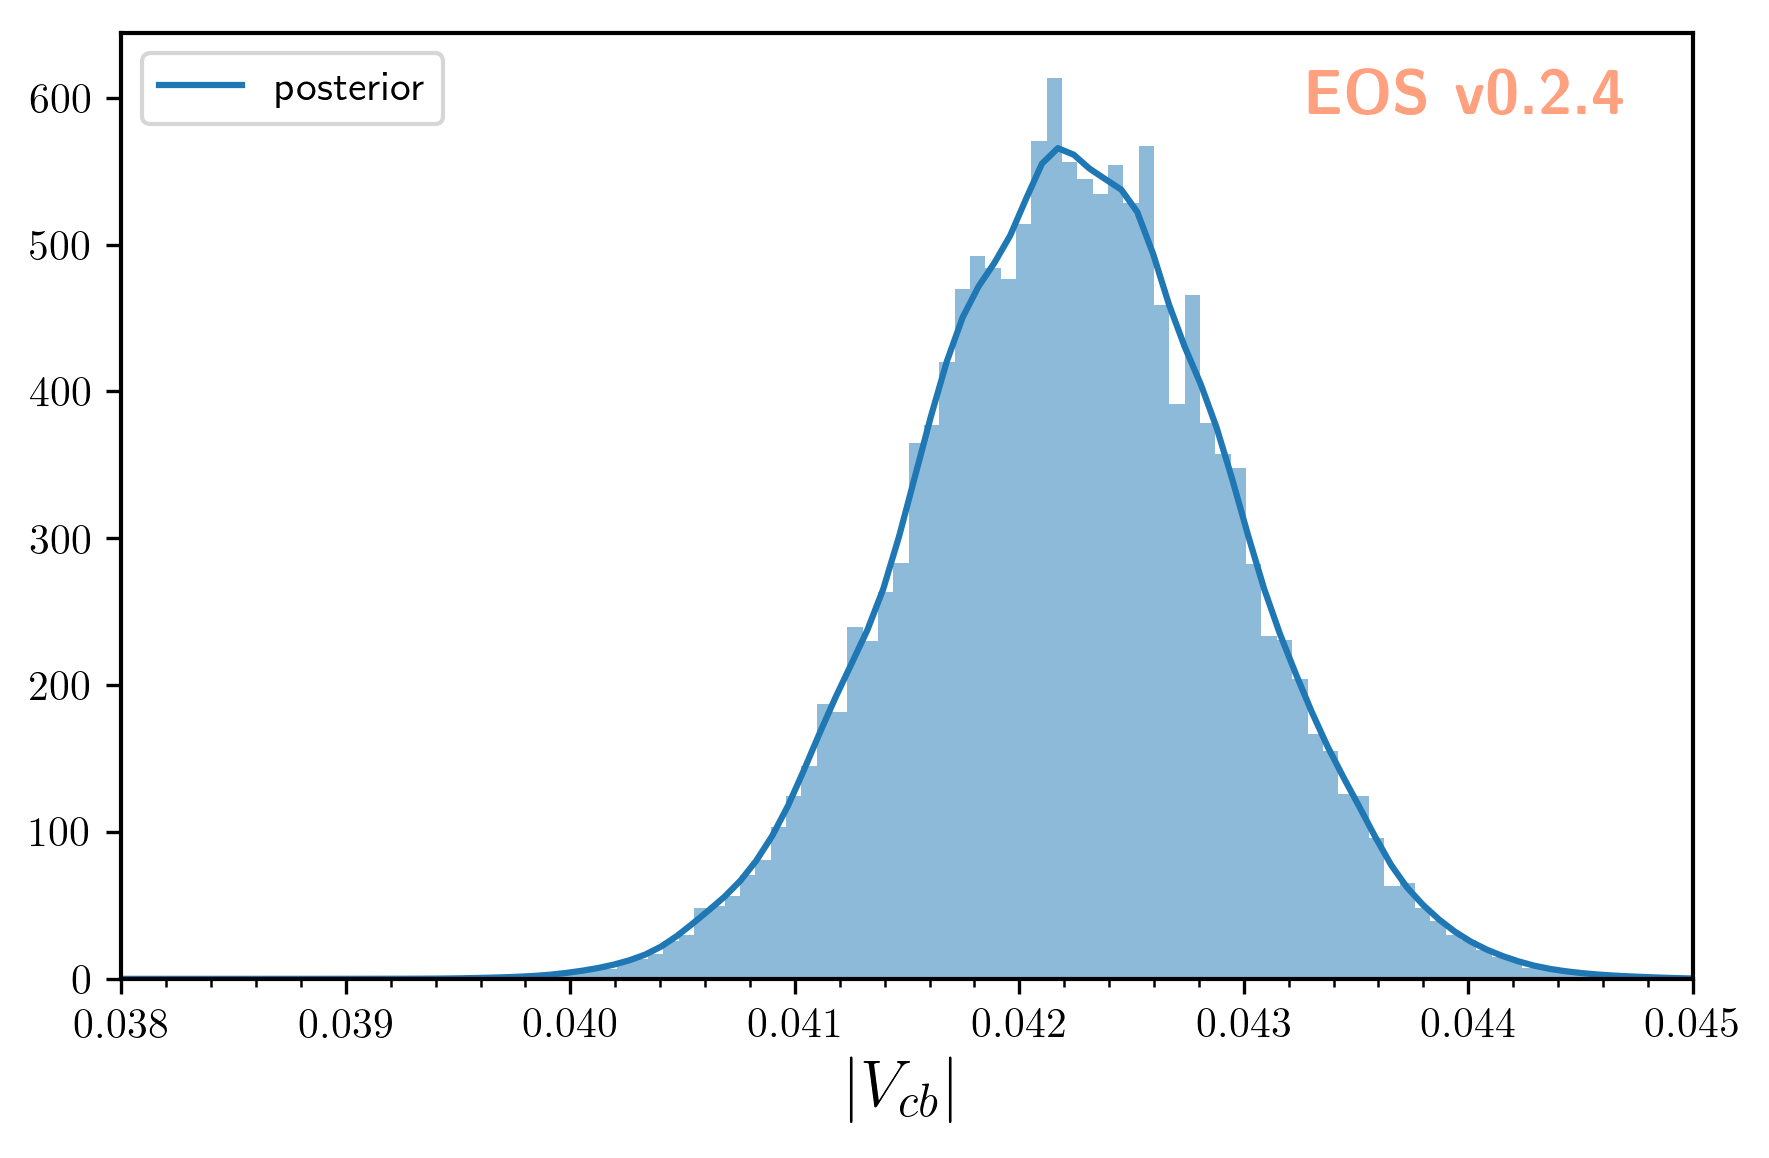
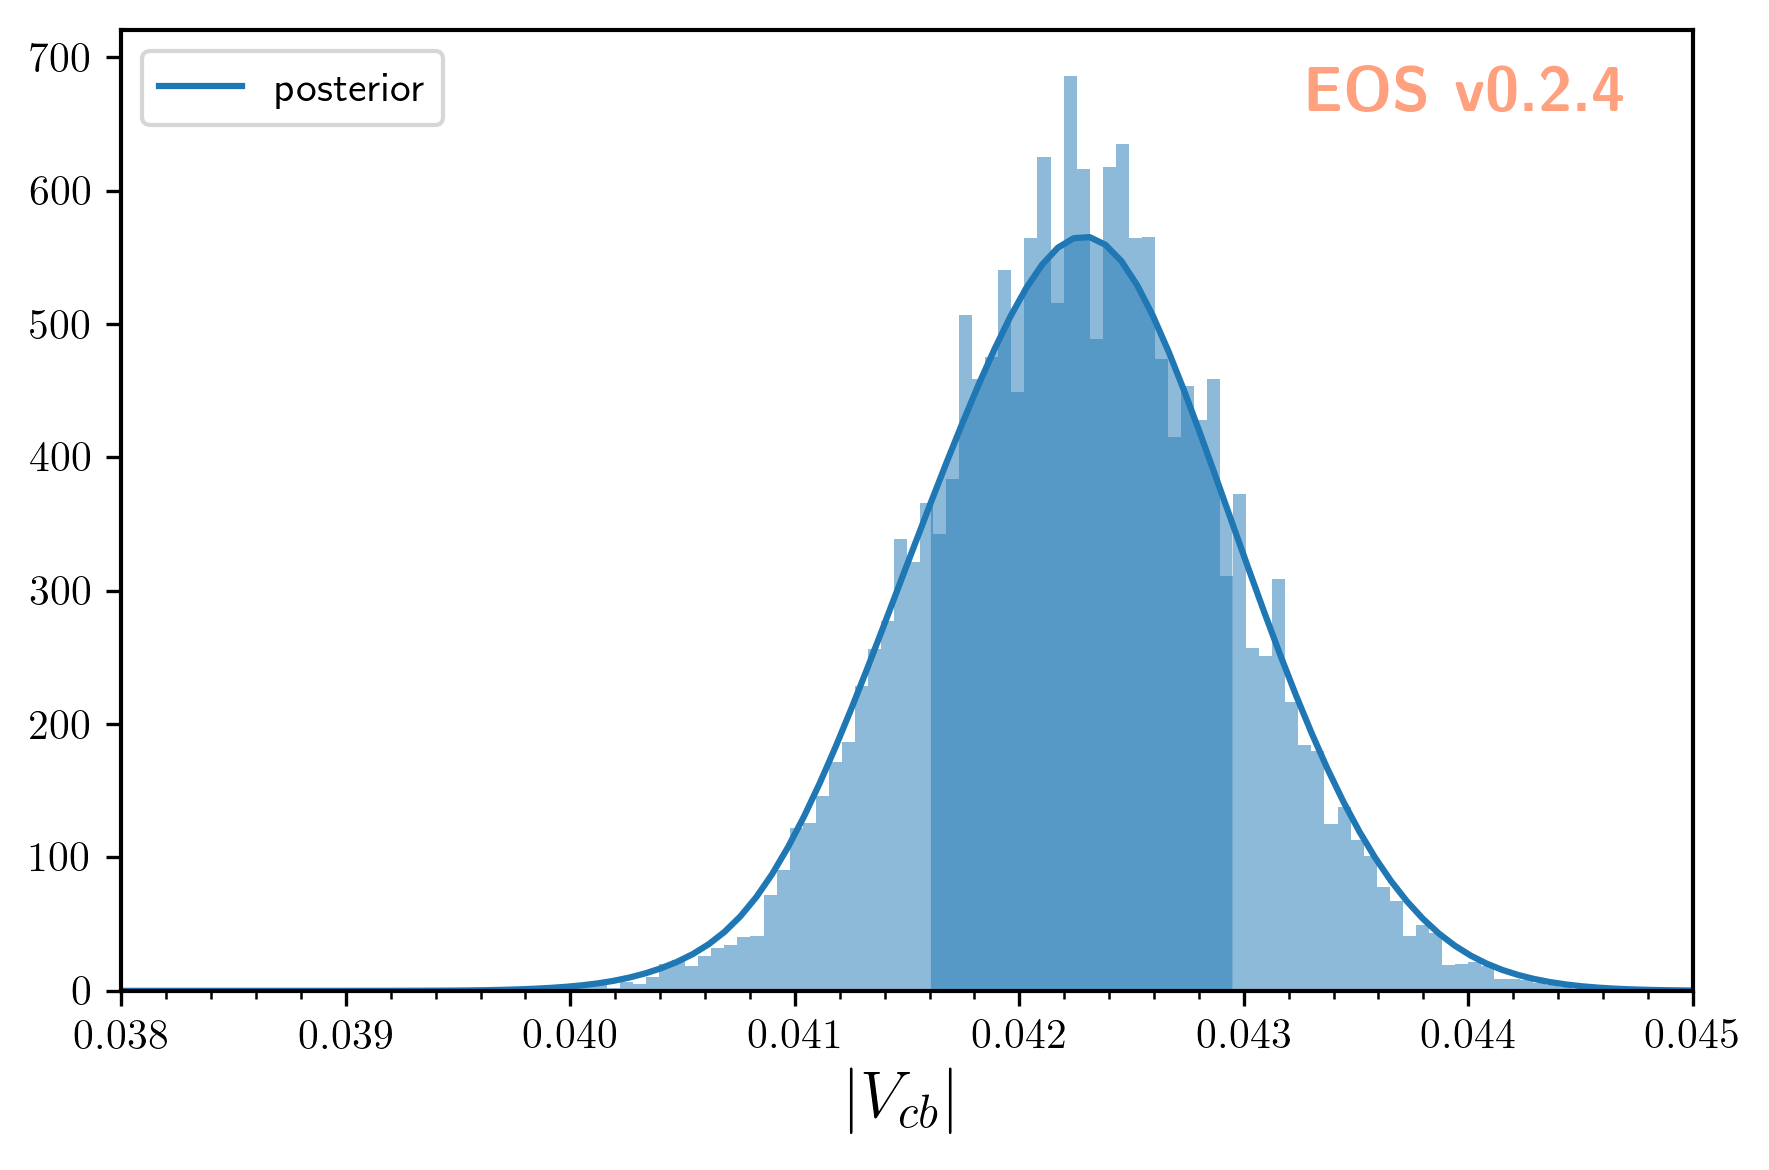
[doc] Document the parameter inference use case

diff --git a/doc/use-cases.rst b/doc/use-cases.rst
@@ -298,13 +298,45 @@ We can plot these samples with EOS' plotting framework by running:
 .. image:: /images/use-cases_plot-uncertainty.png
    :width: 600
 
+
 *******************
 Parameter Inference
 *******************
 
-.. todo::
+EOS can infer parameters based on a database of experimental or theoetical constraints and its built-in observables.
+The examples following in this section illustrate how to find a specific constraint from the list of all built-in observables,
+construct an :class:`Analysis <eos.Analysis>` object that represents the statistical analysis,
+and infer mean value and standard deviation of a list of parameters.
 
-  Write section on parameter inference
+.. note::
+
+   The following examples are also available as an interactive `Jupyter <https://jupyter.org/>`_ notebook `from here <https://github.com/eos/eos/blob/master/examples/inference.ipynb>`_.
+
+
+Listing the built-in Constraints
+================================
+
+The full list of built-in constraints for the most-recent EOS release is available online `here <https://eos.github.io/doc/constraints>`_.
+For an interactive apporach to see the list of constraints available to you, run the following in a Jupyter notebook:
+
+.. code-block::
+
+   import eos
+   display(eos.Constraints())
+
+Searching for a specific observable is possible filtering by the constraint name's `prefix`, `name`, or `suffix`, e.g.:
+
+.. code-block::
+
+   display(eos.Constraints(prefix='B^0->D^+'))
+
+
+Visualizing the built-in Constraints
+====================================
+
+For what follows we will use the two experimental constraints ``B^0->D^+e^-nu::BRs@Belle-2015A`` and ``B^0->D^+mu^-nu::BRs@Belle-2015A``,
+to infer the CKM matrix element :math:`|V_{cb}|`. We can readily display these two constraints, along with the default theory prediction,
+using the following code:
 
 .. code-block::
 
@@ -345,20 +377,34 @@ Parameter Inference
    }
    eos.plot.Plotter(plot_args).plot()
 
+The resulting plot looks like this:
+
 .. image:: /images/use-cases_inference_plot-a-priori.png
    :width: 600
+
+
+Defining the statistical Analysis
+=================================
+
+To define our statistical analysis for the inference of :math:`|V_{cb}|` from :math:`\bar{B}\to D\ell^-\bar\nu` branching ratios,
+some decisions are needed.
+First, we must decide how to parametrize the hadronic form factors that emerge in semileptonic :math:`\bar{B}\to D` transitions.
+For what follows we will use the [BSZ2015]_ parametrization.
+Next, we must decide the theory input for the form factors. For what follows we will combine the correlated lattice QCD results published by the Fermilab/MILC and HPQCD collaborations in 2015.
+
+We then create an :class:`Analysis <eos.Analysis>` object as follows:
 
 .. code-block::
 
    analysis_args = {
        'global_options': { 'form-factors': 'BSZ2015', 'model': 'CKMScan' },
        'priors': [
-           { 'parameter': 'CKM::abs(V_cb)',           'min':  38e-3, 'max':  45e-3,  'type': 'uniform' },
-           { 'parameter': 'B->D::alpha^f+_0@BSZ2015', 'min':  0.0,   'max':  1.0,    'type': 'uniform' },
-           { 'parameter': 'B->D::alpha^f+_1@BSZ2015', 'min': -4.0,   'max': -1.0,    'type': 'uniform' },
-           { 'parameter': 'B->D::alpha^f+_2@BSZ2015', 'min': +4.0,   'max': +6.0,    'type': 'uniform' },
-           { 'parameter': 'B->D::alpha^f0_1@BSZ2015', 'min': -1.0,   'max': +2.0,    'type': 'uniform' },
-           { 'parameter': 'B->D::alpha^f0_2@BSZ2015', 'min': -2.0,   'max':  0.0,    'type': 'uniform' }
+           { 'parameter': 'CKM::abs(V_cb)',           'min':  38e-3, 'max':  45e-3, },
+           { 'parameter': 'B->D::alpha^f+_0@BSZ2015', 'min':  0.0,   'max':  1.0,   },
+           { 'parameter': 'B->D::alpha^f+_1@BSZ2015', 'min': -4.0,   'max': -1.0,   },
+           { 'parameter': 'B->D::alpha^f+_2@BSZ2015', 'min': +4.0,   'max': +6.0,   },
+           { 'parameter': 'B->D::alpha^f0_1@BSZ2015', 'min': -1.0,   'max': +2.0,   },
+           { 'parameter': 'B->D::alpha^f0_2@BSZ2015', 'min': -2.0,   'max':  0.0,   }
        ],
        'likelihood': [
            'B->D::f_++f_0@HPQCD2015A',
@@ -370,6 +416,87 @@ Parameter Inference
    analysis = eos.Analysis(**analysis_args)
    analysis.parameters['CKM::abs(V_cb)'].set(42.0e-3)
 
+In the above, the global options ensure that our choice of form factor parametrization is used throughout,
+and that for CKM matrix elements the `CKMScan` model is used. The latter provides access to :math:`V_{cb}` matrix element through two :class:`parameters <eos.Parameter>`:
+the absolute value ``CKM::abs(V_cb)`` and the complex phase ``CKM::arg(V_cb)``.
+We provide the parameters in our analysis through the specifications of the Bayesian priors.
+In the above, each prior is by default a uniform prior that covers the range from ``min`` to ``max``.
+The likelihood is defined through a list constraints, which in the above includes both the experimental measurements by the Belle collaboration as well as the theoretical lattice QCD results.
+Finally, we set the starting value of ``CKM::abs(V_cb)`` to a sensible value of :math:`42\cdot 10^{-3}`.
+
+We can now proceed to optimize the log(posterior) through a call to ``analysis.optimize``.
+In a Jupyter notebook, it is useful to display the return value of this method, which illustrates the best-fit point.
+We can further display a summary of the goodness-of-fit information.
+
+.. code-block::
+
+   bfp = analysis.optimize()
+   display(bfp)
+   display(analysis.goodness_of_fit())
+
+The resulting best-fit point looks like this:
+
+.. list-table::
+   :widths: 25, 25
+
+   * - parameter
+     - value
+   * - :math:`|V_{cb}|`
+     - 0.0422
+   * - ``B->D::alpha^f+_0@BSZ2015``
+     - 0.6671
+   * - ``B->D::alpha^f+_1@BSZ2015``
+     - -2.5314
+   * - ``B->D::alpha^f+_2@BSZ2015``
+     - 4.8813
+   * - ``B->D::alpha^f0_1@BSZ2015``
+     - 0.2660
+   * - ``B->D::alpha^f0_2@BSZ2015``
+     - -0.8410
+
+The goodness-of-fit summary consists of a table listing all constraints,
+
+.. list-table::
+   :widths: 25, 25, 25
+
+   * - constraint
+     - :math:`\chi^2`
+     - d.o.f.
+   * - ``B->D::f_++f_0@FNALMILC2015A``
+     - 3.4847
+     - 7
+   * - ``B->D::f_++f_0@HPQCD2015A``
+     - 3.1016
+     - 5
+   * - ``B^0->D^+e^-nu::BRs@Belle-2015A``
+     - 11.8206
+     - 10
+   * - ``B^0->D^+mu^-nu::BRs@Belle-2015A``
+     - 5.2242
+     - 10
+
+and the overall information including the p value:
+
+.. list-table::
+   :widths: 25, 25
+
+   * - total :math:`\chi^2`
+     - 23.6310
+   * - total degrees of freedom
+     - 26
+   * - p-value
+     - 59.7053%
+
+
+Sampling from the posterior
+===========================
+
+To sample from the posterior, EOS provides the :meth:`sample <eos.Analysis.sample>` method.
+Optionally, it can also produce posterior-predictive samples for a list of observables.
+For this example, we produce such samples for the differential :math:`\bar{B}\to D^+e^-\bar\nu` branching ratio in 40 points in the phase space.
+We can use this to illustrate the results of our fit in relation to the constraints.
+The call is:
+
 .. code-block::
 
    e_q2values  = np.unique(np.concatenate((np.linspace(0.02,  1.00, 20), np.linspace(1.00, 11.60, 20))))
@@ -379,6 +506,66 @@ Parameter Inference
                  for q2 in e_q2values]
    parameter_samples, log_weights, e_samples  = analysis.sample(N=20000, stride=5, pre_N=1000, preruns=5, cov_scale=0.05, start_point=bfp.point, observables=e_obs)
 
+In the above we start sampling at the best-fit point, and carry out :code:`preruns = 5` burn-in runs/preruns of :code:`pre_N = 1000` samples each,
+and the main run with a total of :code:`N * stride = 100000` random Markov Chain samples.
+The latter are thinned down by a factor of :code:`stride = 5` to obtain :code:`N = 20000` samples in :code:`parameter_samples`.
+The values of the log(posterior) are stored in :code:`log_weights`.
+The posterior-preditive samples for the observables are stored in :code:`e_samples`, and are only returned if the :code:`observables` keyword argument is provided.
+
+
+We can illustrate the posterior samples either as a histogram or as a kernel density estimate (KDE) using the built-in plotting functions:
+
+.. code-block::
+
+   plot_args = {
+       'plot': {
+           'x': { 'label': r'$|V_{cb}|$', 'range': [38e-3, 45e-3] },
+           'legend': { 'location': 'upper left' }
+       },
+       'contents': [
+           {
+               'type': 'histogram',
+               'data': { 'samples': parameter_samples[:, 0], 'log_weights': log_weights }
+           },
+           {
+               'type': 'kde', 'color': 'C0', 'label': 'posterior', 'bandwidth': 2,
+               'range': [40e-3, 45e-3],
+               'data': { 'samples': parameter_samples[:, 0], 'log_weights': log_weights }
+           }
+       ]
+   }
+   eos.plot.Plotter(plot_args).plot()
+
+The result looks like this:
+
+.. image:: /images/use-cases_inference_hist-Vcb.png
+   :width: 600
+
+Contours at given levels of posterior probability can be obtained for any pair of parameters using:
+
+.. code-block::
+
+   plot_args = {
+       'plot': {
+           'x': { 'label': r'$|V_{cb}|$', 'range': [38e-3, 47e-3] },
+           'y': { 'label': r'$f_+(0)$', 'range': [0.6, 0.75] },
+       },
+       'contents': [
+           {
+               'type': 'kde2D', 'color': 'C1', 'label': 'posterior',
+               'range': [40e-3, 45e-3], 'levels': [68, 99], 'bandwidth': 3,
+               'data': { 'samples': parameter_samples[:, (0,1)], 'log_weights': log_weights }
+           }
+       ]
+   }
+   eos.plot.Plotter(plot_args).plot()
+
+The result looks like this:
+
+.. image:: /images/use-cases_inference_hist-Vcb-f_+-zero.png
+   :width: 600
+
+We can visualize the posterior-predictive samples using:
 
 .. code-block::
 
@@ -415,32 +602,11 @@ Parameter Inference
    }
    eos.plot.Plotter(plot_args).plot()
 
+The result looks like this:
+
 .. image:: /images/use-cases_inference_plot-a-posteriori.png
    :width: 600
 
-.. code-block::
-
-   plot_args = {
-       'plot': {
-           'x': { 'label': r'$|V_{cb}|$', 'range': [38e-3, 45e-3] },
-           'legend': { 'location': 'upper left' }
-       },
-       'contents': [
-           {
-               'type': 'histogram',
-               'data': { 'samples': parameter_samples[:, 0], 'log_weights': log_weights }
-           },
-           {
-               'type': 'kde', 'color': 'C0', 'label': 'posterior', 'bandwidth': 2,
-               'range': [40e-3, 45e-3],
-               'data': { 'samples': parameter_samples[:, 0], 'log_weights': log_weights }
-           }
-       ]
-   }
-   eos.plot.Plotter(plot_args).plot()
-
-.. image:: /images/use-cases_inference_hist-Vcb.png
-   :width: 600
 
 **************************
 Production of Peudo Events
